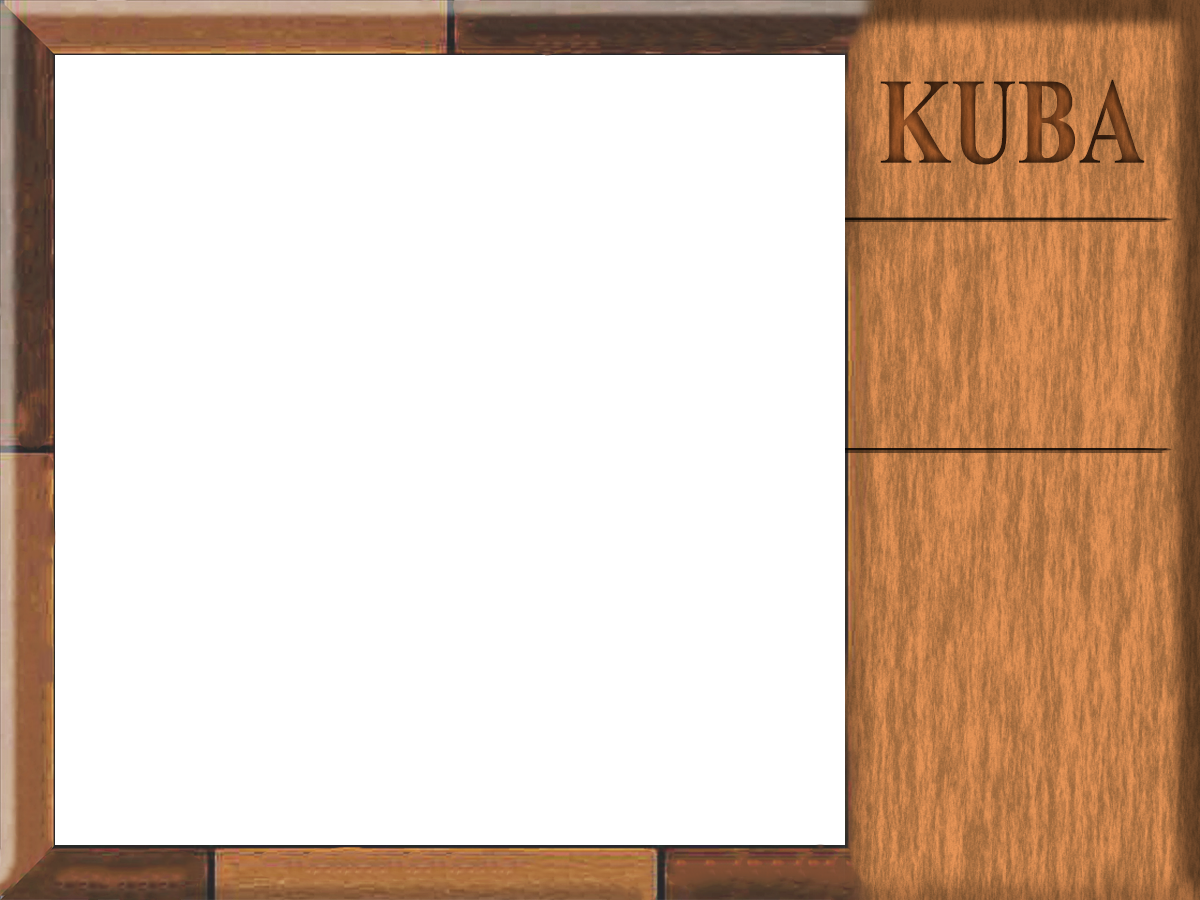
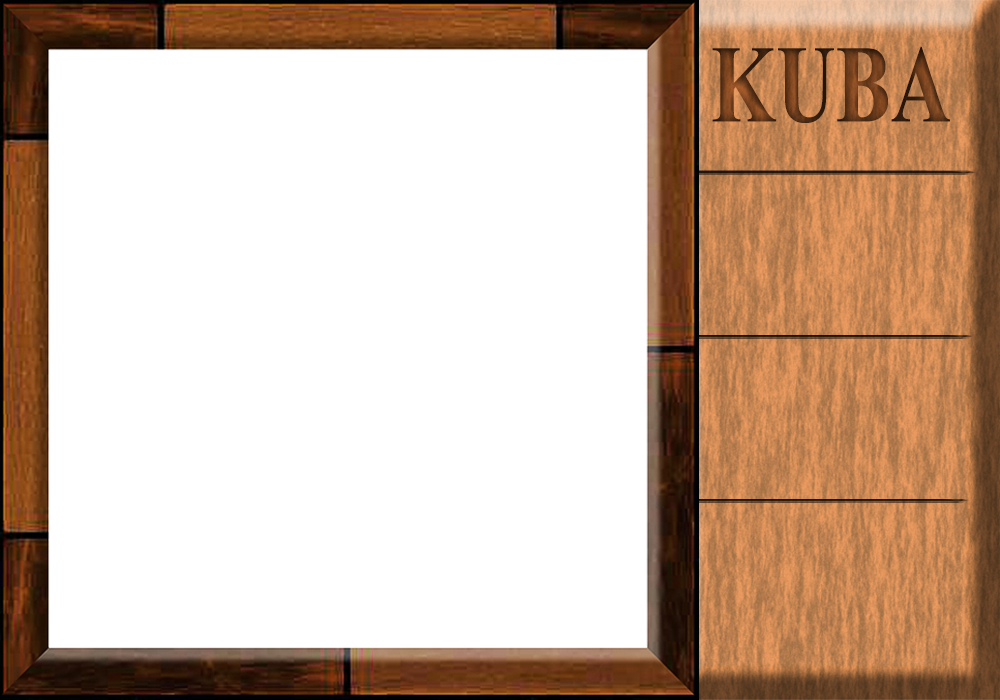
Menu MK-1: updated graphics edition

diff --git a/src/view/View.java b/src/view/View.java
@@ -1,12 +1,13 @@
 package view;
 
-import java.awt.*;
+import java.awt.Color;
+import java.awt.Font;
 import java.awt.event.*;
-import java.io.File;
+import java.io.IOException;
+
 import javax.swing.*;
 
 import model.Couleur;
-import model.plateau.Board;
 import model.Joueur;
 
 public class View extends JFrame {
@@ -14,27 +15,42 @@ public class View extends JFrame {
     JComboBox<String> boardSizes;
     JTextField playerOne = new JTextField("Joueur 1");
     JTextField playerTwo = new JTextField("Joueur 2");
+    JCheckBox botOne, botTwo;
     JButton start;
-    JPanel menu, match;
-    JLabel title, background;
+    JLabel menu, game;
+    JPanel match;
     
-    public View(){
-        setSize(1200,900);
+    public View() throws IOException {
+        setSize(1000,735);
         setTitle("Kuba");
         setLayout(null);
-        accessor = this;
-        menu = new JPanel(null);
-        menu.setSize(1200,900);
         
-        ImageIcon img1 = new ImageIcon("../resources/main_title.png");
-        title = new JLabel(img1, JLabel.CENTER);
-        ImageIcon img2 = new ImageIcon("../resources/background.png");
-        background = new JLabel(img2, JLabel.CENTER);
+        accessor = this;
+        menu = new JLabel("",new ImageIcon("src/resources/main_title.png"), JLabel.CENTER);
+        game = new JLabel("",new ImageIcon("src/resources/background.png"), JLabel.CENTER);
+        
 
         String[] choices = {"3x3", "7x7", "11x11", "15x15", "19x19"};
         boardSizes = new JComboBox<String>(choices);
         boardSizes.setSelectedIndex(1);
-        
+
+        botOne = new JCheckBox("Utiliser un bot");
+        botOne.setForeground(Color.WHITE);
+        botOne.setBackground(new Color(0,0,0,100));
+        botTwo = new JCheckBox("Utiliser un bot");
+        botTwo.setForeground(Color.WHITE);
+        botTwo.setBackground(new Color(0,0,0,100));
+
+        playerOne.setBackground(new Color(255,255,255,70));
+        playerOne.setFont(new Font("Arial", Font.BOLD, 18));
+        playerTwo.setBackground(new Color(255,255,255,70));
+        playerTwo.setFont(new Font("Arial", Font.BOLD, 18));
+
+        JLabel text = new JLabel("Taille du plateau");
+        text.setFont(new Font("Arial", Font.BOLD, 18));
+        text.setForeground(Color.white);
+        text.setBackground(new Color(0,0,0,70));
+;        
         start = new JButton("Lancer");
         start.addActionListener( new ActionListener() {
             public void actionPerformed(ActionEvent e) {
@@ -43,32 +59,38 @@ public class View extends JFrame {
                 new Joueur(playerOne.getText(), Couleur.BLANC, N*N*2),
                 new Joueur(playerTwo.getText(), Couleur.NOIR, N*N*2));
                 JFrame frame = View.accessor;
-                frame.remove(match);
-                frame.add(match);
+                match.setBounds(50,50,930,630);
+                game.add(match);
+                frame.setContentPane(game);
+                frame.invalidate();
+                frame.validate();
             } 
             
         });
 
-        title.setBounds(0,0,1200,900);
-        background.setBounds(0,0,1200,900);
-
-        playerOne.setBounds(180,200,200,50);
-        playerTwo.setBounds(820,200,200,50);
-        start.setBounds(500,325,200,100);
-        boardSizes.setBounds(560,250,80,50);
+        playerOne.setBounds(125,375,200,50);
+        playerTwo.setBounds(675,375,200,50);
+        botOne.setBounds(130, 430, 130, 30);
+        botTwo.setBounds(680, 430, 130, 30);
+        start.setBounds(450,575,130,60);
+        text.setBounds(375, 510, 175, 30);
+        boardSizes.setBounds(575,500,80,50);
         
-        menu.add(title);
         menu.add(playerOne);
         menu.add(boardSizes);
         menu.add(playerTwo);
         menu.add(start);
+        menu.add(botOne);
+        menu.add(botTwo);
+        menu.add(text);
 
         setContentPane(menu);
 
     }
 
     public void restart(){
-        this.remove(match);
-        this.add(menu);
+        this.setContentPane(menu);
+        game = new JLabel("",new ImageIcon("src/resources/background.png"), JLabel.CENTER);
+        match = null;
     }
 }

diff --git a/src/view/PlayerView.java b/src/view/PlayerView.java
@@ -5,41 +5,42 @@ import javax.swing.*;
 import model.Joueur;
 
 public class PlayerView extends JPanel {
-    private static int count;
     private JLabel nom;
     private JLabel billesCapturesR;
     private JLabel billesRestantes;
     private Joueur joueur;
 
     public PlayerView(Joueur j){
-        count++;
-        Color bg = new Color(70*(count%2+1)+50,70*(count%2+1)+50,70*(count%2+1)+50);
-        this.setBackground(bg);
-        this.setLayout(new GridLayout(3,1));
-        this.setPreferredSize(new Dimension(300, 340));
+        setBackground(new Color(0,0,0,0));
+        setLayout(null);
         joueur = j;
-        nom = new JLabel("     "+j.getNom());
-        nom.setFont(new Font("Serif", Font.BOLD, 18));
-        JLabel lab1 = new JLabel("   Billes restantes");
-        JLabel lab2 = new JLabel("   Billes rouges capturées");
-        billesRestantes = new JLabel(j.getNbAdversaireCapture()+"   ");
-        billesCapturesR = new JLabel(j.getNbBilleRougeCapturer()+"   ");
-        this.add(nom);
-        JPanel rest = new JPanel(new BorderLayout());
-        rest.add(lab1, BorderLayout.WEST);
-        rest.add(billesRestantes, BorderLayout.EAST);
-        rest.setBackground(bg);
-        this.add(rest);
-        JPanel rouge = new JPanel(new BorderLayout());
-        rouge.add(lab2, BorderLayout.WEST);
-        rouge.add(billesCapturesR, BorderLayout.EAST);
-        rouge.setBackground(bg);
-        this.add(rouge);
+        nom = new JLabel(j.getNom());
+        nom.setFont(new Font("Serif", Font.BOLD, 22));
+        JLabel lab1 = new JLabel("Billes restantes");
+        lab1.setFont(new Font("Serif", Font.BOLD, 14));
+        JLabel lab2 = new JLabel("Billes rouges capturées");
+        lab2.setFont(new Font("Serif", Font.BOLD, 14));
+        billesRestantes = new JLabel(j.getNbAdversaireCapture()+"");
+        billesRestantes.setFont(new Font("Serif", Font.BOLD, 15));
+        billesCapturesR = new JLabel(j.getNbBilleRougeCapturer()+"");
+        billesCapturesR.setFont(new Font("Serif", Font.BOLD, 15));
+
+        nom.setBounds( 18, 13,200, 40);
+        lab1.setBounds(18, 73,200, 30);
+        lab2.setBounds(18,113,200, 30);
+        billesRestantes.setBounds(228, 78, 20, 20);
+        billesCapturesR.setBounds(228,118, 20, 20);
+
+        add(nom);
+        add(lab1);
+        add(billesRestantes);
+        add(lab2);
+        add(billesCapturesR);
     }
 
     public void update(){
-        billesRestantes = new JLabel(joueur.getNbAdversaireCapture()+"   ");
-        billesCapturesR = new JLabel(joueur.getNbBilleRougeCapturer()+"   ");
+        billesRestantes = new JLabel(joueur.getNbAdversaireCapture()+"");
+        billesCapturesR = new JLabel(joueur.getNbBilleRougeCapturer()+"");
         this.repaint();
     }
 }

diff --git a/src/view/MatchView.java b/src/view/MatchView.java
@@ -3,38 +3,58 @@ package view;
 import java.awt.*;
 import java.awt.event.*;
 import javax.swing.*;
-import javax.swing.border.EmptyBorder;
 
 import model.plateau.Board;
 import model.Joueur;
 
-public class MatchView extends JPanel{
+public class MatchView extends JPanel {
     Joueur j1, j2;
     PlayerView p1, p2;
     Board plateau;
-    JButton leave;
+    JButton leave, confirm, undo, redo;
 
-    public MatchView(int N, Joueur j1, Joueur j2){
-        this.setLayout(new BorderLayout());
+    public MatchView(int N, Joueur j1, Joueur j2) {
+        setLayout(null);
+        setBackground(new Color(0,0,0,0));
         plateau = new Board(N);
         plateau.initBoard();
         //plateau.setBorder(new EmptyBorder(0, 0, getHeight(), getHeight()));
-        this.add(plateau, BorderLayout.WEST);
         p1 = new PlayerView(j1);
         p2 = new PlayerView(j2);
-        JPanel players = new JPanel(new BorderLayout());
-        p1.setSize(getPreferredSize());
-        p2.setSize(getPreferredSize());
-        players.add(p1,BorderLayout.NORTH);
-        players.add(p2,BorderLayout.CENTER);
-        leave = new JButton("Quitter");
+        undo = new JButton(new ImageIcon("src/resources/undo.png"));
+        undo.setBackground(new Color(0,0,0,0));
+        undo.setBorderPainted(false);
+        redo = new JButton(new ImageIcon("src/resources/redo.png"));
+        redo.setBackground(new Color(0,0,0,0));
+        redo.setBorderPainted(false);
+        confirm = new JButton(new ImageIcon("src/resources/confirm.png"));
+        confirm.setBackground(new Color(0,0,0,0));
+        confirm.setBorderPainted(false);
+        leave = new JButton(new ImageIcon("src/resources/return.png"));
+        leave.setBackground(new Color(0, 0, 0, 0));
+        leave.setBorderPainted(false);
         leave.addActionListener( new ActionListener() {
             public void actionPerformed(ActionEvent e) {
                 View.accessor.restart();
             } 
         });
-        players.add(leave, BorderLayout.SOUTH);
-        this.add(players, BorderLayout.EAST);
+
+        plateau.setBounds(0,0,598,598);
+        p1.setBounds(648, 123, 275, 165);
+        p2.setBounds(648, 287, 275, 165);
+        undo.setBounds(680, 475, 55, 55);
+        redo.setBounds(840, 475, 55, 55);
+        confirm.setBounds(760, 475, 55, 55);
+        leave.setBounds(720, 550, 55, 55);
+
+        add(plateau);
+        add(p1);
+        add(p2);
+        add(leave);
+        add(confirm);
+        add(undo);
+        add(redo);
+        p1.setBackground(new Color(15,5,0,50));
     }
 
     public void update(){

diff --git a/src/view/Background.java b/src/view/Background.java
@@ -1,0 +1,21 @@
+package view;
+
+import javax.swing.*;
+import java.awt.*;
+import javax.imageio.*;
+import java.io.*;
+
+public class Background extends JComponent {
+    private Image image;
+    
+    public Background(String filepath) throws IOException {
+        image = ImageIO.read(new File(filepath));
+        setLayout(null);
+    }
+
+    @Override
+    protected void paintComponent(Graphics g){
+        super.paintComponent(g);
+        g.drawImage(image, 0, 0, this);
+    }
+}

diff --git a/src/Main.java b/src/Main.java
@@ -6,11 +6,12 @@ import model.mouvement.Position;
 import model.plateau.Board;
 import view.View;
 
+import java.io.IOException;
 
 import javax.swing.*;
 
 public class Main {
-    public static void main(String[] args) {
+    public static void main(String[] args) throws IOException {
         Board board = new Board(3);
 
         board.initBoard();
